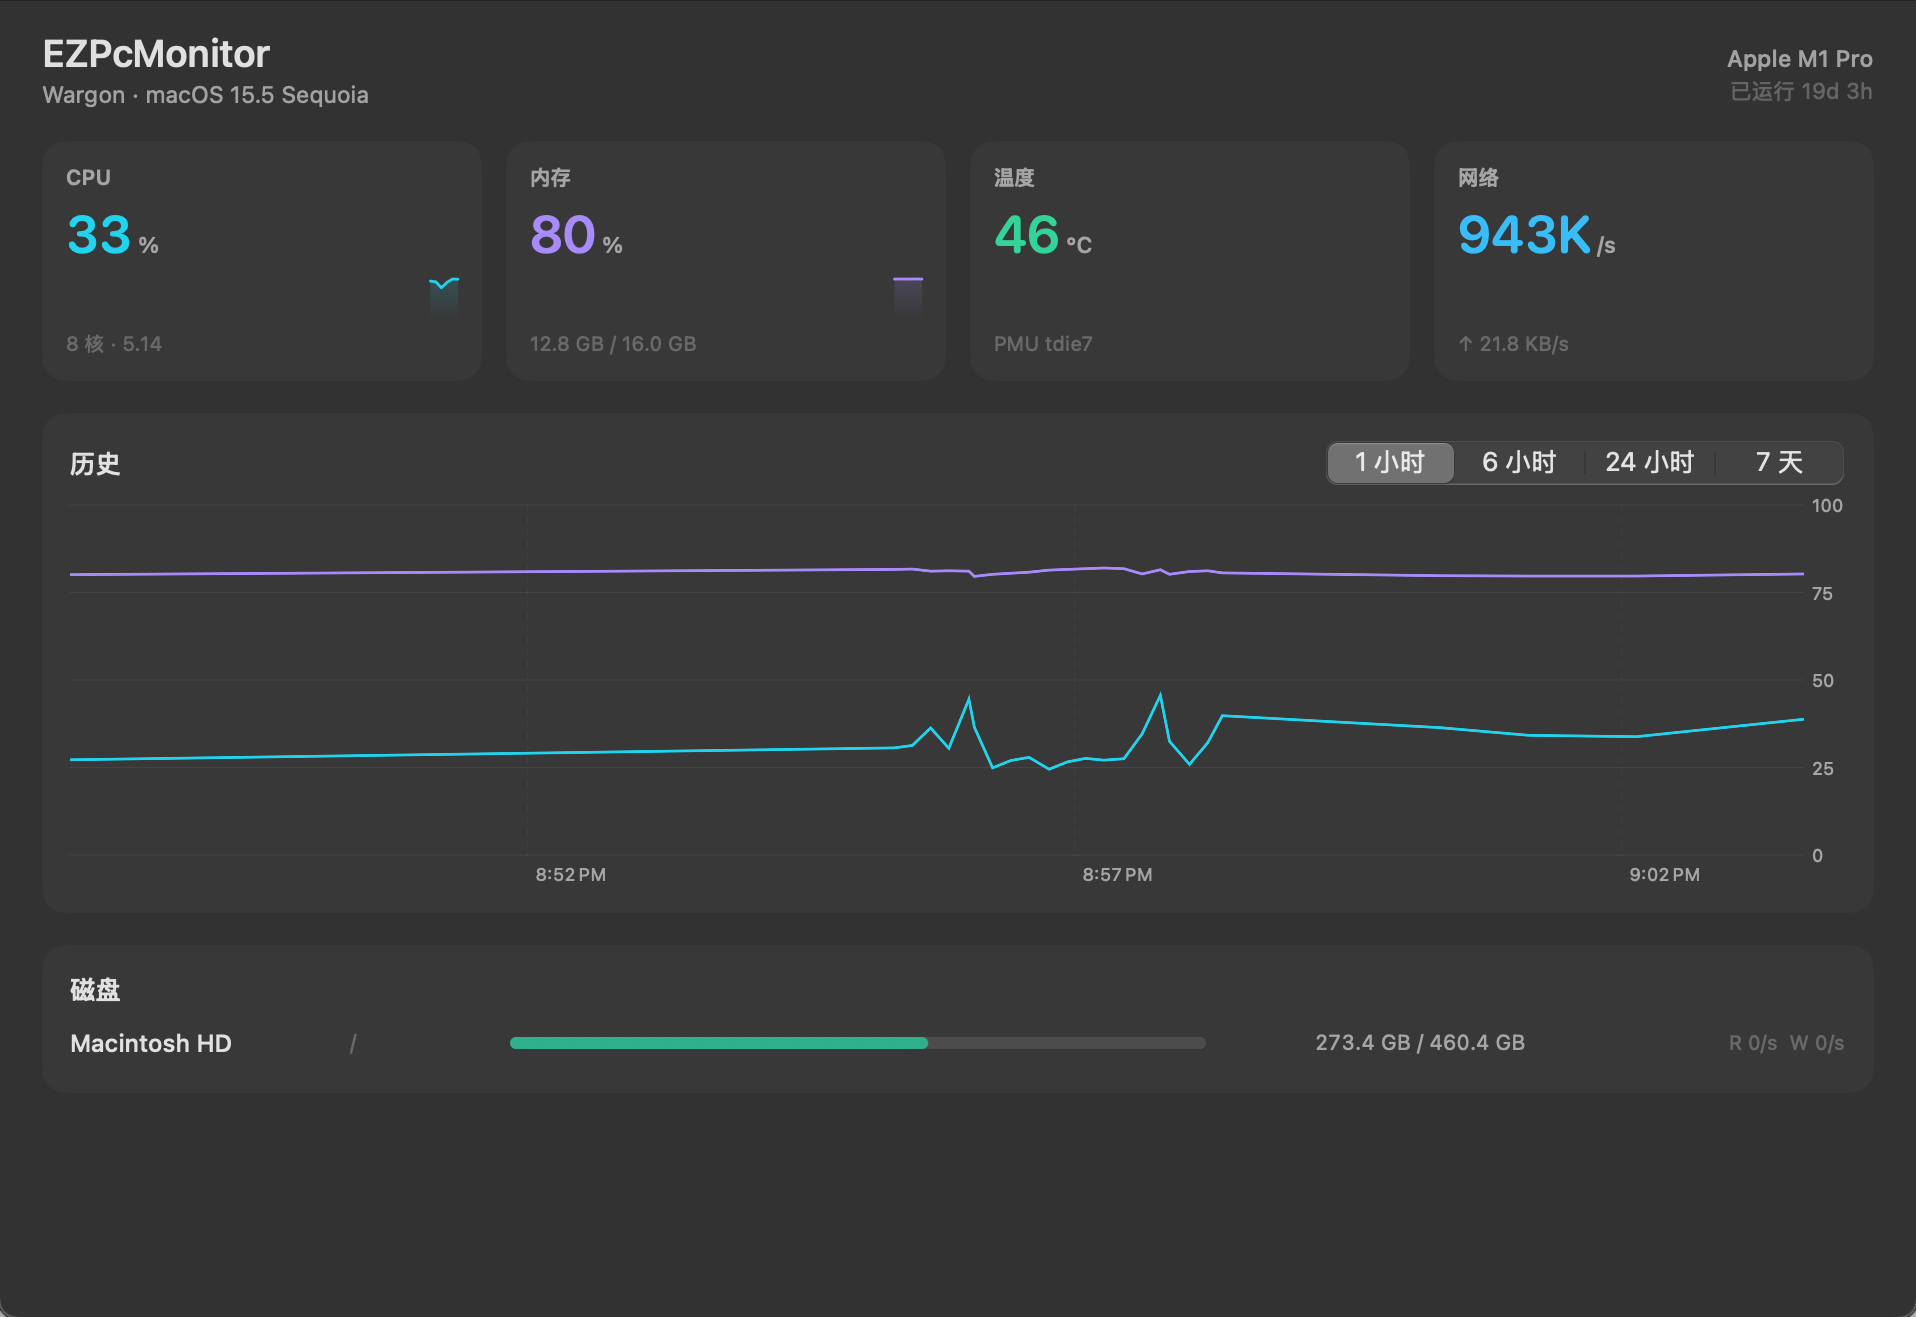
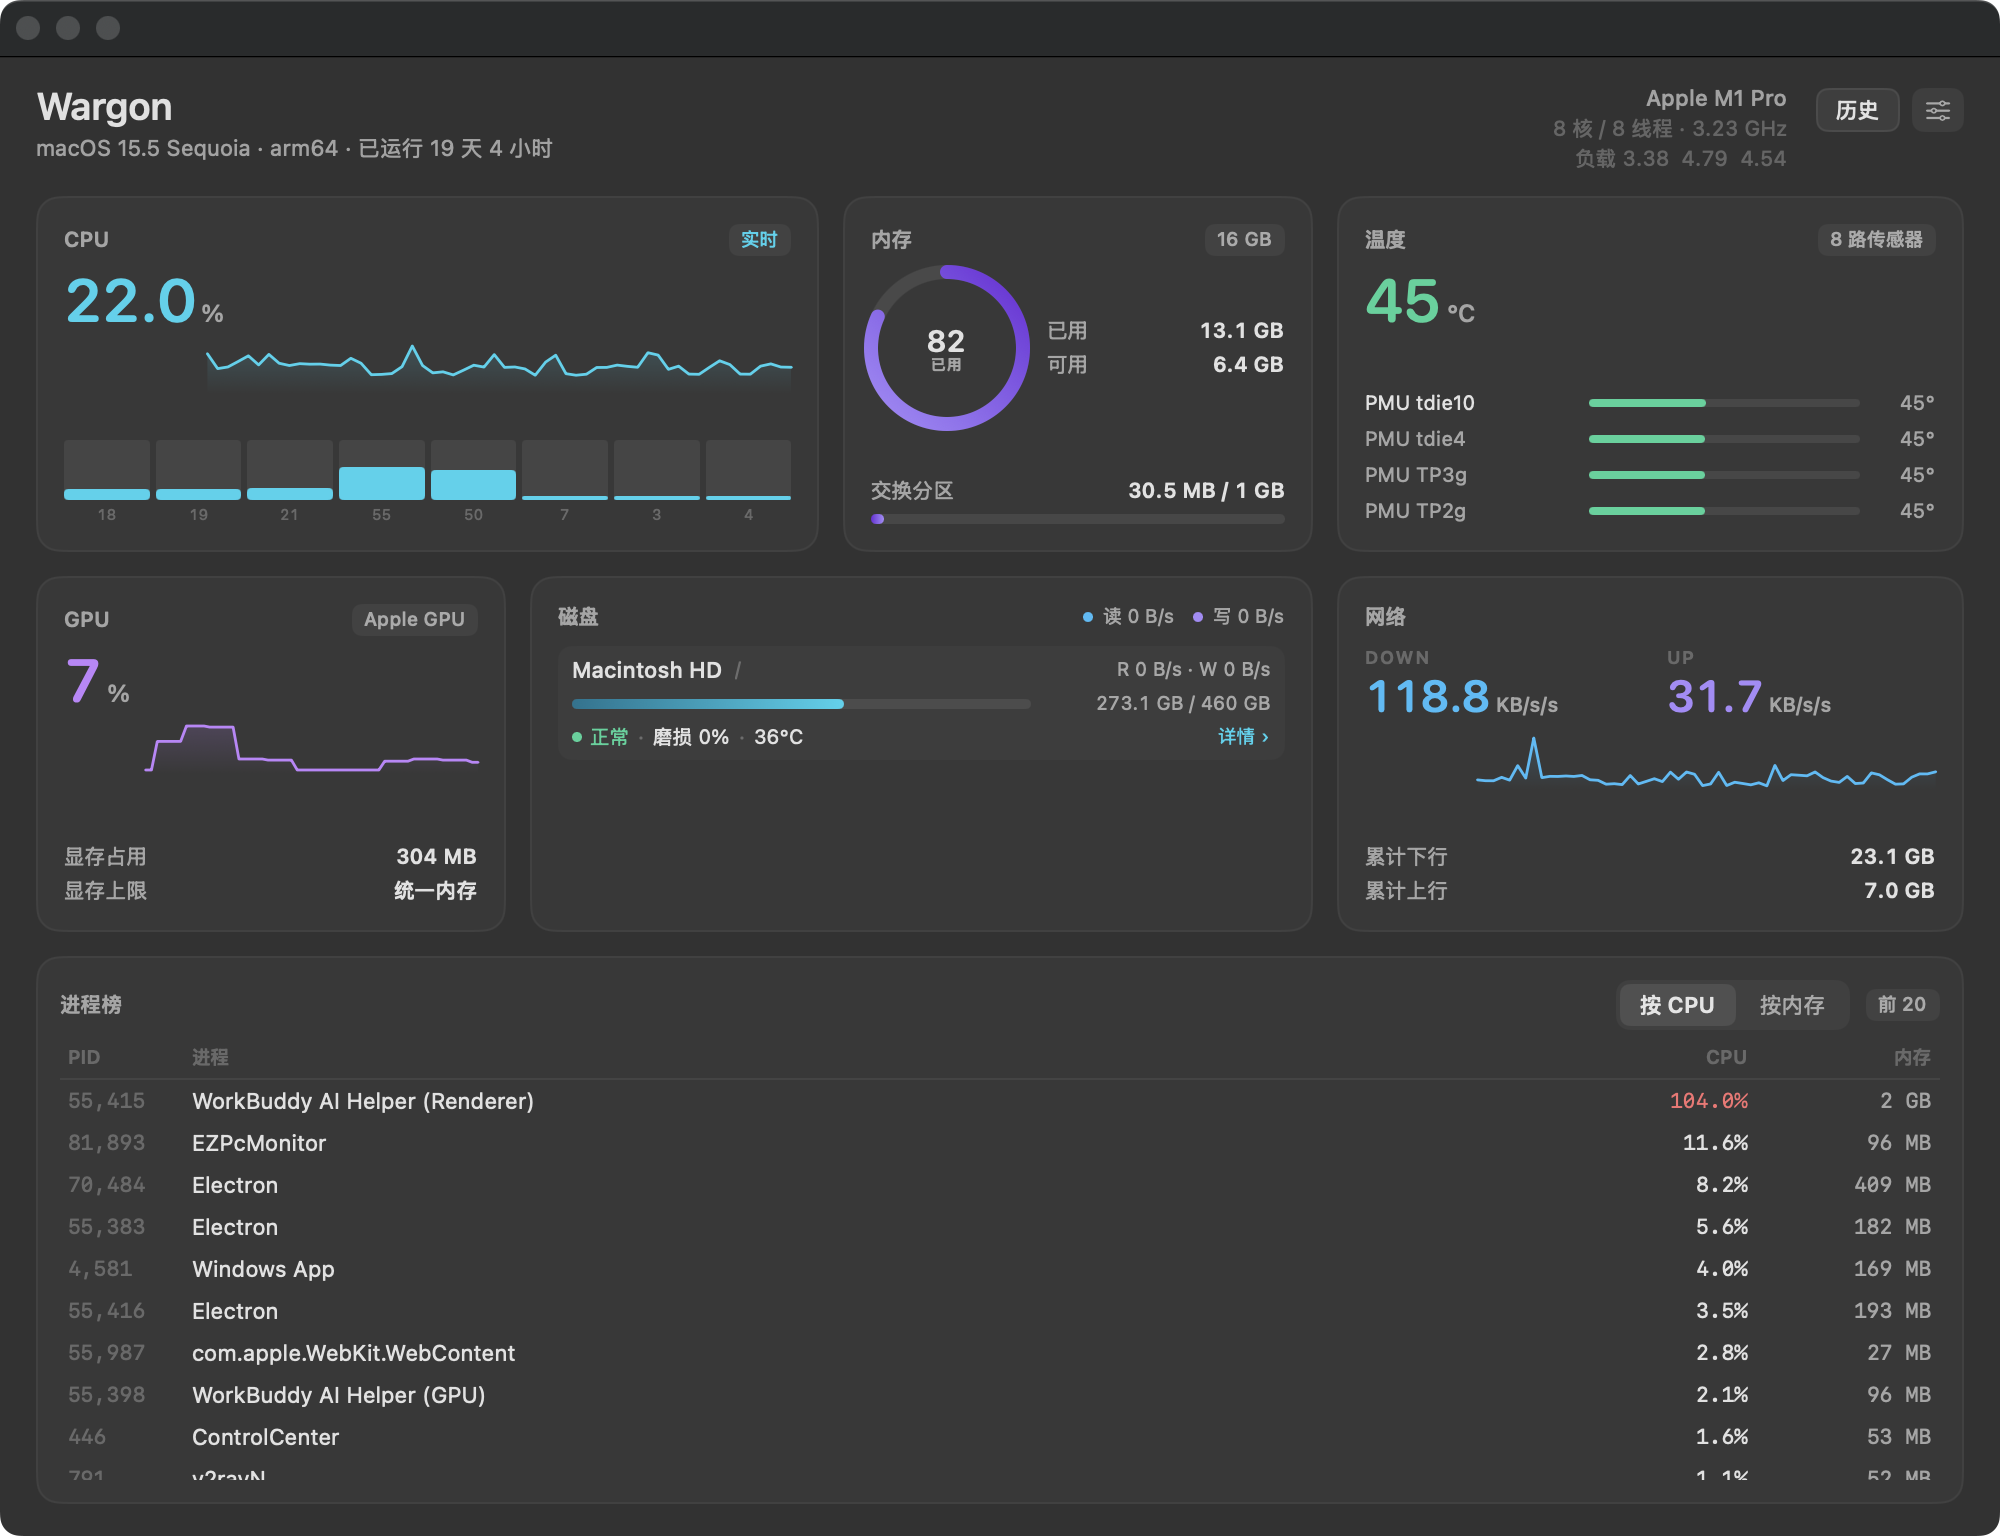
fix(mac_native): 磁盘详情底部被裁、程序榜条形看不清、报告抬头写主机名
- 磁盘详情：整页不再塞进 ScrollView，改成只有 SMART 属性表滚动，
  表高按条数算（上限 200）；页脚和 core 给的 note 都能露出来
- 程序榜：均值条从「垫在数字底下」改成「数字前面的一小段」，
  宽度 36→56 并按列分配宽度（均值 124 / 峰值 100 / 活跃 88），
  峰值叠影和条形的对比度在深浅两套主题下都够
- 报告图：抬头取「系统设置里那台机器名」，而不是 DNS 主机名
  （原来会写成 wargondebijibendiannao 这种拼音串）；
  出图前补一次 refreshNow，避免历史窗口先开时抬头只有「Mac ·」
- 进程表 CPU 列只在高负载时上色，整列同色反而看不出异常
- 刷新 docs/screenshots：native-dashboard / native-history / native-settings

diff --git a/macos/Sources/EZPcMonitor/UI/DiskDetailView.swift b/macos/Sources/EZPcMonitor/UI/DiskDetailView.swift
@@ -50,33 +50,34 @@ struct DiskDetailView: View {
             header
             Hairline().padding(.top, 10)
 
-            ScrollView {
-                VStack(alignment: .leading, spacing: 14) {
-                    if let health {
-                        metaLine(health)
-                        statRow(health)
-                        ioSection
-                    } else {
-                        Text(i18n.t("dd.smartLoading"))
-                            .font(.system(size: 11))
-                            .foregroundStyle(.secondary)
-                    }
-
-                    benchSection
-
-                    if let health {
-                        smartSection(health)
-                    }
+            // 只有 SMART 属性表滚动，上面的身份行 / 数字块 / 曲线 / 测速固定住。
+            // 整页塞进 ScrollView 的话，滚到属性表第 12 行时「磨损 0%」这种
+            // 一眼就该看到的结论会滚出视野。
+            VStack(alignment: .leading, spacing: 14) {
+                if let health {
+                    metaLine(health)
+                    statRow(health)
+                    ioSection
+                } else {
+                    Text(i18n.t("dd.smartLoading"))
+                        .font(.system(size: 11))
+                        .foregroundStyle(.secondary)
                 }
-                .padding(.vertical, 14)
+
+                benchSection
+
+                if let health {
+                    smartSection(health)
+                }
             }
-            .scrollIndicators(.automatic)
+            .padding(.vertical, 14)
+            .frame(maxHeight: .infinity, alignment: .top)
 
             Hairline()
             footer
         }
         .padding(18)
-        .frame(width: 720, height: 640)
+        .frame(width: 720, height: 700)
         .background(Color(nsColor: .windowBackgroundColor))
     }
 
@@ -244,7 +245,12 @@ struct DiskDetailView: View {
     // MARK: SMART
 
     private func smartSection(_ h: DiskHealth) -> some View {
-        VStack(alignment: .leading, spacing: 6) {
+        // 表格高度算出来而不是靠弹性布局：不同盘的属性条数从 8 到 40 都有，
+        // 让 ScrollView 自己决定高度会让整张 sheet 的高度跟着盘变，
+        // 每次打开都跳一下。这里夹到 240，多出来的部分滚动看。
+        let tableHeight = min(200, CGFloat(h.attrs.count) * 21 + 26)
+
+        return VStack(alignment: .leading, spacing: 6) {
             sectionTitle(i18n.t("dd.smart"), tag: i18n.tn("p.attrs", Double(h.attrs.count)))
 
             VStack(spacing: 0) {
@@ -262,29 +268,15 @@ struct DiskDetailView: View {
 
                 Hairline()
 
-                ForEach(h.attrs) { a in
-                    HStack(spacing: 8) {
-                        Text(a.name)
-                            .font(.system(size: 10.5))
-                            .foregroundStyle(a.critical ? Palette.warn : Color.primary)
-                            .lineLimit(1)
-                            .frame(maxWidth: .infinity, alignment: .leading)
-                        Text(a.value.isEmpty ? "—" : a.value)
-                            .font(.system(size: 10.5, design: .monospaced))
-                            .monospacedDigit()
-                            .foregroundStyle(a.critical ? Palette.warn : Color.secondary)
-                            .lineLimit(1)
-                            .frame(width: 150, alignment: .leading)
-                        Text(a.extra)
-                            .font(.system(size: 10))
-                            .foregroundStyle(.secondary)
-                            .lineLimit(1)
-                            .truncationMode(.tail)
-                            .frame(width: 210, alignment: .leading)
+                ScrollView {
+                    LazyVStack(spacing: 0) {
+                        ForEach(h.attrs) { a in
+                            attrRow(a)
+                        }
                     }
-                    .padding(.vertical, 3.5)
-                    .background(a.critical ? Palette.warn.opacity(0.07) : Color.clear)
                 }
+                .scrollIndicators(.automatic)
+                .frame(height: tableHeight)
             }
             .padding(.horizontal, 8)
             .padding(.vertical, 4)
@@ -297,6 +289,30 @@ struct DiskDetailView: View {
                 note(n)
             }
         }
+    }
+
+    private func attrRow(_ a: SmartAttr) -> some View {
+        HStack(spacing: 8) {
+            Text(a.name)
+                .font(.system(size: 10.5))
+                .foregroundStyle(a.critical ? Palette.warn : Color.primary)
+                .lineLimit(1)
+                .frame(maxWidth: .infinity, alignment: .leading)
+            Text(a.value.isEmpty ? "—" : a.value)
+                .font(.system(size: 10.5, design: .monospaced))
+                .monospacedDigit()
+                .foregroundStyle(a.critical ? Palette.warn : Color.secondary)
+                .lineLimit(1)
+                .frame(width: 150, alignment: .leading)
+            Text(a.extra)
+                .font(.system(size: 10))
+                .foregroundStyle(.secondary)
+                .lineLimit(1)
+                .truncationMode(.tail)
+                .frame(width: 210, alignment: .leading)
+        }
+        .padding(.vertical, 3.5)
+        .background(a.critical ? Palette.warn.opacity(0.07) : Color.clear)
     }
 
     // MARK: 小工具

diff --git a/macos/Sources/EZPcMonitor/UI/ProcLeadersView.swift b/macos/Sources/EZPcMonitor/UI/ProcLeadersView.swift
@@ -115,7 +115,7 @@ struct ProcLeadersView: View {
                     .foregroundStyle(c == col ? Color.primary : Color.secondary)
                 }
                 .buttonStyle(.plain)
-                .frame(width: 96)
+                .frame(width: Self.width(c))
             }
         }
         .font(.system(size: 9.5, weight: .semibold))
@@ -153,7 +153,7 @@ struct ProcLeadersView: View {
 
             ForEach(LeadersLogic.cols(for: dim), id: \.self) { c in
                 cell(r, c, mean: meanPct, peak: peakPct)
-                    .frame(width: 96)
+                    .frame(width: Self.width(c))
             }
         }
         .padding(.vertical, 3)
@@ -167,31 +167,28 @@ struct ProcLeadersView: View {
         let text = LeadersLogic.format(dim, c, v)
 
         if c == .mean {
-            // 条形当单元格背景：均值填实、峰值那段用淡色续上。
-            // 单独在数字前面塞一根 40pt 的条会让数字对不齐，
-            // 而这里的三个数字列必须能一眼上下比较。
-            ZStack(alignment: .trailing) {
-                GeometryReader { geo in
-                    ZStack(alignment: .leading) {
-                        RoundedRectangle(cornerRadius: 3, style: .continuous)
-                            .fill(Color.primary.opacity(0.05))
-                        HStack(spacing: 0) {
-                            Rectangle()
-                                .fill(Palette.cpu.opacity(0.55))
-                                .frame(width: geo.size.width * mean / 100)
-                            Rectangle()
-                                .fill(Palette.cpu.opacity(0.22))
-                                .frame(width: geo.size.width * max(0, peak) / 100)
-                        }
-                        .clipShape(RoundedRectangle(cornerRadius: 3, style: .continuous))
+            // 条形放在数字**前面**而不是垫在底下：垫底的话数字压在浅色填充上，
+            // 深浅两种背景下的对比度都不稳，而且三个数字列会看起来像三个色块。
+            HStack(spacing: 5) {
+                Spacer(minLength: 0)
+                ZStack(alignment: .leading) {
+                    Capsule().fill(Color.primary.opacity(0.07))
+                    HStack(spacing: 0) {
+                        Rectangle()
+                            .fill(Palette.cpu.opacity(0.8))
+                            .frame(width: Self.barWidth * CGFloat(mean / 100))
+                        Rectangle()
+                            .fill(Palette.cpu.opacity(0.28))
+                            .frame(width: Self.barWidth * CGFloat(max(0, peak) / 100))
                     }
+                    .clipShape(Capsule())
                 }
+                .frame(width: Self.barWidth, height: 6)
+
                 Text(text)
                     .font(.system(size: 10.5, design: .monospaced))
                     .monospacedDigit()
-                    .padding(.trailing, 4)
             }
-            .frame(height: 16)
         } else {
             Text(text)
                 .font(.system(size: 10.5, design: .monospaced))
@@ -205,6 +202,19 @@ struct ProcLeadersView: View {
                         ]))
         }
     }
+
+    /// 列宽按内容给：均值那列要放条+数字，峰值/活跃只要数字。
+    /// 平均条用 56pt 而不是 36pt——归一化基准是全场峰值，常见的均值只有个位数
+    /// 百分比，条太短就成了一根浮着的小短线，反而看不出差异。
+    private static func width(_ c: ColKey) -> CGFloat {
+        switch c {
+        case .mean: return 124
+        case .peak: return 100
+        default: return 88
+        }
+    }
+
+    private static let barWidth: CGFloat = 56
 }
 
 private extension View {

diff --git a/macos/Sources/EZPcMonitor/UI/HistoryWindow.swift b/macos/Sources/EZPcMonitor/UI/HistoryWindow.swift
@@ -1,5 +1,6 @@
 import AppKit
 import SwiftUI
+import SystemConfiguration
 
 // MARK: - 窗口
 
@@ -128,7 +129,12 @@ struct HistoryView: View {
         .padding(.bottom, 14)
         .frame(minWidth: 820, minHeight: 560)
         .background(Color(nsColor: .windowBackgroundColor))
-        .task(id: range) { await load() }
+        .task(id: range) {
+            await load()
+            // 开发钩子：`--report` 一进来就出一张图存到「下载」，
+            // 用来回归报告版面和 ImageRenderer 的导出，省得每次都手点。
+            if CommandLine.arguments.contains("--report") { await makeReport(copy: false) }
+        }
         .task { stats = await fetchStats() }
     }
 
@@ -320,9 +326,16 @@ struct HistoryView: View {
         guard busy == nil, !rows.isEmpty else { return }
         busy = copy ? "copy" : "report"
 
+        // 历史窗口可以比主面板先打开，那时候模型里还没有第一拍快照。
+        // 不补这一下，报告抬头就会写成「Mac ·」——中间那个点后面什么都没有。
+        model.refreshNow()
+        let snap = model.snapshot
+        let host = snap?.host.name ?? Self.computerName()
+        let os = snap?.host.os ?? ""
+
         let input = ReportInput(
-            host: model.snapshot?.host.name ?? "Mac",
-            os: model.snapshot?.host.os ?? "",
+            host: host,
+            os: os,
             rangeLabel: i18n.retention(range ?? retention),
             points: rows,
             procs: leaders?.rows ?? [],
@@ -348,6 +361,15 @@ struct HistoryView: View {
             NSWorkspace.shared.activateFileViewerSelecting([url])
         }
         busy = nil
+    }
+
+    /// 报告抬头要写用户在「系统设置」里看到的那台机器名，而不是 DNS 主机名——
+    /// 后者常是 `wargondebijibendiannao.local` 这种拼音串，放进报告里很难看。
+    private static func computerName() -> String {
+        if let n = SCDynamicStoreCopyComputerName(nil, nil) as String?, !n.isEmpty {
+            return n
+        }
+        return ProcessInfo.processInfo.hostName.replacingOccurrences(of: ".local", with: "")
     }
 
     @MainActor

diff --git a/macos/Sources/EZPcMonitor/UI/Theme.swift b/macos/Sources/EZPcMonitor/UI/Theme.swift
@@ -116,6 +116,16 @@ enum Fmt {
         return Palette.accent
     }
 
+    /// 表格里的着色：只有真的高才上色。
+    ///
+    /// 每个数字都染一遍的话，整列都在喊，反而看不出哪个才是异常的那个——
+    /// 而「哪个异常」正是这张表唯一的用处。
+    static func loadTint(_ v: Double) -> Color? {
+        if v >= 85 { return Palette.danger }
+        if v >= 65 { return Palette.warn }
+        return nil
+    }
+
     /// 秒 → 「3 天 4 小时」/「2h 15m」这种。跟界面语言无关的缩写，
     /// 因为它在悬浮窗/卡片里只占一行，翻译成完整单词会撑爆。
     static func uptime(_ secs: UInt64) -> String {

diff --git a/macos/Sources/EZPcMonitor/UI/DashboardView.swift b/macos/Sources/EZPcMonitor/UI/DashboardView.swift
@@ -633,7 +633,7 @@ struct DashboardView: View {
             Text(String(format: "%.1f%%", p.cpu))
                 .font(.system(size: 10.5, design: .monospaced))
                 .monospacedDigit()
-                .foregroundStyle(Fmt.loadColor(p.cpu))
+                .foregroundStyle(Fmt.loadTint(p.cpu) ?? Color.primary)
                 .frame(width: 68, alignment: .trailing)
             Text(Fmt.bytes(Double(p.mem), digits: 0))
                 .font(.system(size: 10.5, design: .monospaced))

diff --git a/macos/Sources/EZPcMonitor/UI/ReportImage.swift b/macos/Sources/EZPcMonitor/UI/ReportImage.swift
@@ -142,7 +142,7 @@ private struct ReportPage: View {
                     .font(.system(size: 15, weight: .semibold))
                     .foregroundStyle(theme.accent)
             }
-            Text("\(input.host) · \(input.os)")
+            Text(input.os.isEmpty ? input.host : "\(input.host) · \(input.os)")
                 .font(.system(size: 14))
                 .foregroundStyle(theme.dim)
         }
